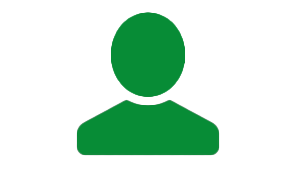
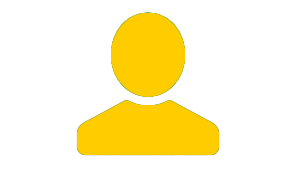
aggiunto icona login

Changed region(s): [[0.2432, 0.0585, 0.7601, 0.9064]]

diff --git a/src/main/resources/static/login_page.html b/src/main/resources/static/login_page.html
@@ -14,7 +14,7 @@
 		<nav class="navbar navbar-dark navbar-expand bg-dark navigation-clean">
 	        <div class="container"><a class="navbar-brand" href="#">DirectBus</a><button data-bs-toggle="collapse" class="navbar-toggler" data-bs-target="#navcol-1"></button>
 	            <div class="collapse navbar-collapse" id="navcol-1"><a class="btn btn-dark ms-auto" role="button" href="#">Sign In</a></div>
-	        </div>
+	        </div> 
 	    </nav>
 	    
 		<div class="container mt-5 " id="firstContainer">
@@ -22,6 +22,9 @@
 				<center>
 					<br><br>
 					<h1 id="singUp" class="col-xl-5 mx-auto position-relative mb-5">Sing In</h1>
+					<nav class="image">
+	    				<img alt="" src="images/icona.png">
+	    			</nav>
 				</center>
 				<div class="form-floating mb-3">
 				  <i class="bi bi-envelope-fill"></i>
